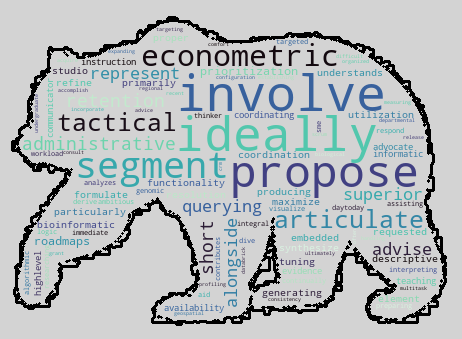
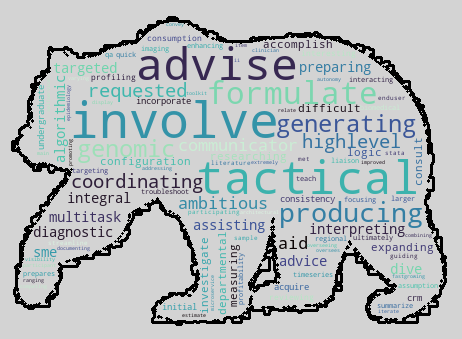
finished parsing monograms down to determined

Changed region(s): [[0.0303, 0.059, 0.9394, 0.944]]

diff --git a/nlp_main.py b/nlp_main.py
@@ -315,7 +315,7 @@ def clean_for_nlp(series_of_interest):
                                             'understand', 'various', 'production', 'activity', 'take', 'department', 'provides',
                                             'familiarity', 'others', 'assist', 'needed', 'enable', 'believe', 'effective',
                                             'different', 'planning', 'task', 'want', 'supporting', 'appropriate', 'consumer',
-                                            'effort', 'define', 'document', 'conduct', 'potential', 'used', 'patient', 'inc',
+                                            'effort', 'define', 'conduct', 'potential', 'used', 'patient', 'inc',
                                             'find', 'documentation', 'finance', 'similar', 'first', 'specific', 'share',
                                             'deployment', 'includes', 'require', 'focused', 'act', 'implementing', 'desired',
                                             'organizational', 'person', 'many', 'brand', 'search', 'content', 'address',
@@ -440,7 +440,31 @@ def clean_for_nlp(series_of_interest):
                                             'youve', 'mobility', 'wealth', 'aligned', 'found', 'known', 'funding', 'embedded',
                                             'fostering', 'fuel', 'intermediate',  'awardwinning', 'often', 'tomorrow', 'carry',
                                             'synthesize', 'smarter', 'quo', 'scalability', 'grant', 'useful', 'routine',
-                                            'workload', '200', 'foundational', 'reusable', 'retrieval', 'talk', 'incumbent']))) + ds_skills_combined
+                                            'workload', '200', 'foundational', 'reusable', 'retrieval', 'talk', 'incumbent',
+                                            'pursue', 'attribute', 'retailer', 'span', 'disabled', 'board', 'face', 'zeta', 'co',
+                                            'met', 'validating', 'shaping', 'tactical', 'sample', 'ambitious', 'hub', 'aid',
+                                            'presence', 'command', 'subsidiary', 'participation', 'anticipate', 'therefore',
+                                            'supplier', 'enablement', 'backed', 'rating', 'advise', 'preparing', 'little', 
+                                            'accessibility', 'incorporate', 'beginning', 'car', 'everywhere', 'ethical',
+                                            'supportive', 'departmental', 'newly', 'autonomy', 'still', 'varying', 'sustainability',
+                                            'texas', 'improved', 'included', 'macro', 'approximately', 'difficult', 'interpreting',
+                                            'inhouse', 'generating', 'relation', 'fund', 'already', 'implemented', 'highlevel',
+                                            'huge', 'exchange', 'inspired', 'net', 'legacy', 'fl', 'continues', 'premium', 
+                                            'realize', 'covered', 'reality', 'verify', 'configuration', 'llc', 'physician',
+                                            'accomplish', 'headquarters', 'breadth', 'membership', 'trading', 'visibility',
+                                            'room', 'migration', 'head', 'parent', 'true', 'pursuit', 'spotify', '13',
+                                            'producing', 'md', 'ultimately', 'ever', 'appointment', 'engaged', 'craft',
+                                            'ambition', 'fellow', 'fastest', 'yet', 'dive', 'specialty', 'approval', 'paypal',
+                                            'main', 'prospective', 'affordable', 'affect', 'feed', 'tv', 'expanding', 'quick',
+                                            'continuing', 'completing', 'frequently', 'connecting', 'investigate', 'audio',
+                                            'safer', 'display', 'focusing', 'decade', 'liaison', 'onboarding', 'grade', 'enabled',
+                                            'ideation', 'led', 'worker', 'transcript', 'participating', 'article', 'ranging',
+                                            'rely', 'bold', 'equality', 'fashion', 'integral', 'requested', 'evolution', 
+                                            'appropriately', 'valid', 'advice', 'adhere', 'creatively', 'discus', 'exception',
+                                            'actuarial', 'collective', 'coordinating', 'addressing', '9', 'motor', 'assisting',
+                                            'biomedical', 'estimate', 'targeting', 'screen', 'maximum', 'cultural', 'promise',
+                                            'initial', 'wayfair', 'living', 'ops', 'concern', 'cell', 'music', 'stipend', 'invite',
+                                            'determined']))) + ds_skills_combined
     
     stop_words = nltk.corpus.stopwords.words('english') + additional_stopwords + ds_cred_terms + ds_prof_skill_terms + ds_soft_skill_terms + ds_tech_skill_terms
     
@@ -691,7 +715,7 @@ def visualize_word_clouds(terms_for_nlp):
 #     'cloud' and 'cloudbased'; 'gcp' into google cloud platform;  'sa' back into 'sas'; scrub the alphabetical lists;
 #     'speech recognition' to 'nlp'; 'ai' 'ml' and 'aiml'; 'latest', 'newest', 'cutting edge'; 'recommender' and 'recommendation
 #     in the systems;'making decison' bigram to 'decisionmaking'; 'approach' and 'method' and all cousins; 'principle', 'method, apprach, etc.
-#     'experience' and 'experienced'; ETL with extract transform and load; 
+#     'experience' and 'experienced'; ETL with extract transform and load; 'bachelor' undergraduate'; 'time' and 'timeseries'
 # consider a swarm plot for ....something, with job title or skill along the x_axis and some count/value along the y-axis,
   # maybe count of ds skills FOR THE UNICORN INDEX; yes, count the number of skills cited in each job listing, parsed by job title (which
   # has been collapsed and simplified)
@@ -736,6 +760,7 @@ ds_cred_terms = ['ability',
                  'advanced',
                  'administration',
                  'accredited',
+                 'aerospace',
                  'analyst',
                  'analytics',
                  'associate',
@@ -748,6 +773,7 @@ ds_cred_terms = ['ability',
                  'capability',
                  'certification',
                  'certified',
+                 'chemistry',
                  'clearance',
                  'college', 
                  'collegeuniversity',
@@ -765,6 +791,7 @@ ds_cred_terms = ['ability',
                  'electrical',
                  'engineer',
                  'engineering',
+                 'epidemiology',
                  'equivalent',
                  'experience',
                  'experienced',
@@ -783,6 +810,7 @@ ds_cred_terms = ['ability',
                  'major',
                  'master',
                  'mathematics', 
+                 'mba',
                  'military', 
                  'operation', 
                  'peerreviewed', 
@@ -823,6 +851,7 @@ ds_cred_terms = ['ability',
                  'understand',
                  'understanding',
                  'understood',
+                 'undergraduate',
                  'university',
                  'work',
                  'working',
@@ -835,6 +864,7 @@ ds_tech_skill_terms = ['ab',
                        'accuracy',
                        'adopter',
                        'agile',
+                       'agility',
                        'ai',
                        'aidriven',
                        'aiml',
@@ -842,6 +872,7 @@ ds_tech_skill_terms = ['ab',
                        'advanced',
                        'algebra',
                        'algorithm',
+                       'algorithmic',
                        'alteryx',
                        'amazon',
                      'analysis',
@@ -864,11 +895,14 @@ ds_tech_skill_terms = ['ab',
                      'architecture',
                      'artificial',
                      'asaservice',
+                     'assumption',
                      'automated',
                      'automation', 
                      'automate',
+                     'automating',
                      'aws', 
                      'azure',
+                     'batch',
                      'bayes',
                      'bayesian',
                      'behavioral',
@@ -876,11 +910,13 @@ ds_tech_skill_terms = ['ab',
                      'big',
                      'blockchain',
                      'boosting',
+                     'breakthrough',
                      'build', 
                      'c',
                      'causal', 
                      'center',
                      'cicd',
+                     'chart',
                      'classification',
                      'clean',
                      'cleaning',
@@ -902,9 +938,11 @@ ds_tech_skill_terms = ['ab',
                      'conceptual',
                      'confidence',
                      'confluence',
+                     'constraint',
                      'container',
                      'continuous',
                      'control',
+                     'crm',
                      'cs',
                      'cutting', 
                      'cuttingedge',
@@ -949,6 +987,7 @@ ds_tech_skill_terms = ['ab',
                      'engineering',
                      'enterprise',
                      'environment',
+                     'error',
                      'etl',
                      'evaluate',
                      'evaluation',
@@ -961,6 +1000,7 @@ ds_tech_skill_terms = ['ab',
                      'exploratory',
                      'extract', 
                      'extraction',
+                     'extracting',
                      'fastapi',
                      'feature', 
                      'flask',
@@ -989,6 +1029,7 @@ ds_tech_skill_terms = ['ab',
                      'html', 
                      'hypothesis', 
                      'image',
+                     'imaging',
                      'imagery',
                      'implement',
                      'implementation',
@@ -1002,6 +1043,8 @@ ds_tech_skill_terms = ['ab',
                      'interactive',
                      'interface',
                      'interpretation',
+                     'interpret',
+                     'interpreting',
                      'iterating',
                      'java',
                      'javascript',
@@ -1020,6 +1063,7 @@ ds_tech_skill_terms = ['ab',
                      'linear', 
                      'linux',
                      'load',
+                     'logic',
                      'logical',
                      'logistic', 
                      'looker',
@@ -1036,6 +1080,7 @@ ds_tech_skill_terms = ['ab',
                      'mathematics',
                      'matlab',
                      'measure',
+                     'measurable',
                      'measurement',
                      'metadata',
                      'method',
@@ -1072,6 +1117,7 @@ ds_tech_skill_terms = ['ab',
                      'optimization',
                      'optimizing',
                      'oracle',
+                     'orchestration',
                      'panda', 
                      'pattern', 
                      'pipeline',
@@ -1092,6 +1138,7 @@ ds_tech_skill_terms = ['ab',
                      'proficient',
                      'programming', 
                      'python',
+                     'pyspark',
                      'pytorch',
                      'qualitative',
                      'quantitative',
@@ -1122,6 +1169,7 @@ ds_tech_skill_terms = ['ab',
                      'sa',
                      'saas',
                      'sagemaker',
+                     'sampling',
                      'sap',
                      'scala',
                      'scale',
@@ -1172,18 +1220,22 @@ ds_tech_skill_terms = ['ab',
                      'technical',
                      'technique',
                      'technology',
+                     'technological',
                      'tensorflow', 
                      'test',
                      'testing',
                      'text',
                      'theory',
                      'time', 
+                     'timeseries',
                      'timely',
                      'tool',
+                     'tooling',
                      'train',
                      'training',
                      'translating',
                      'transformation',
+                     'troubleshoot',
                      'troubleshooting',
                      'tree',
                      'trend',
@@ -1192,6 +1244,7 @@ ds_tech_skill_terms = ['ab',
                      'user',
                      'unsupervised',
                      'validation',
+                     'variable',
                      'vector',
                      'version', 
                      'visio',
@@ -1213,6 +1266,7 @@ ds_soft_skill_terms = ['ad',
                        'ambiguity',
                        'ambiguous',
                        'articulate',
+                       'assumption',
                        'attention', 
                        'attitude',
                        'audience',
@@ -1235,6 +1289,7 @@ ds_soft_skill_terms = ['ad',
                      'communicates',
                      'communicating', 
                      'communication',
+                     'communicator',
                      'complex',
                      'complexity',
                      'concise',
@@ -1259,6 +1314,8 @@ ds_soft_skill_terms = ['ad',
                      'delivering',
                      'detail',
                      'detailed',
+                     'document',
+                     'documenting',
                      'draw', 
                      'dynamic',
                      'efficient',
@@ -1343,6 +1400,7 @@ ds_soft_skill_terms = ['ad',
                      'proactively',
                      'problem', 
                      'problemsolving',
+                     'productive',
                      'productivity',
                      'push', 
                      'quality',
@@ -1396,6 +1454,7 @@ ds_prof_skill_terms = ['ability',
                        'advisor',
                        'agile',
                        'architecting',
+                       'assumption',
                        'build',
                        'business',
                        'career', 
@@ -1506,6 +1565,7 @@ ds_prof_skill_terms = ['ability',
                        'process',
                        'product',
                        'professional',
+                       'profitability',
                        'program',
                        'project', 
                        'proposal',
@@ -1535,6 +1595,7 @@ ds_prof_skill_terms = ['ability',
                        'stream',
                        'subject',
                        'success',
+                       'supervisory',
                        'team',
                        'teammate',
                        'teamwork',
